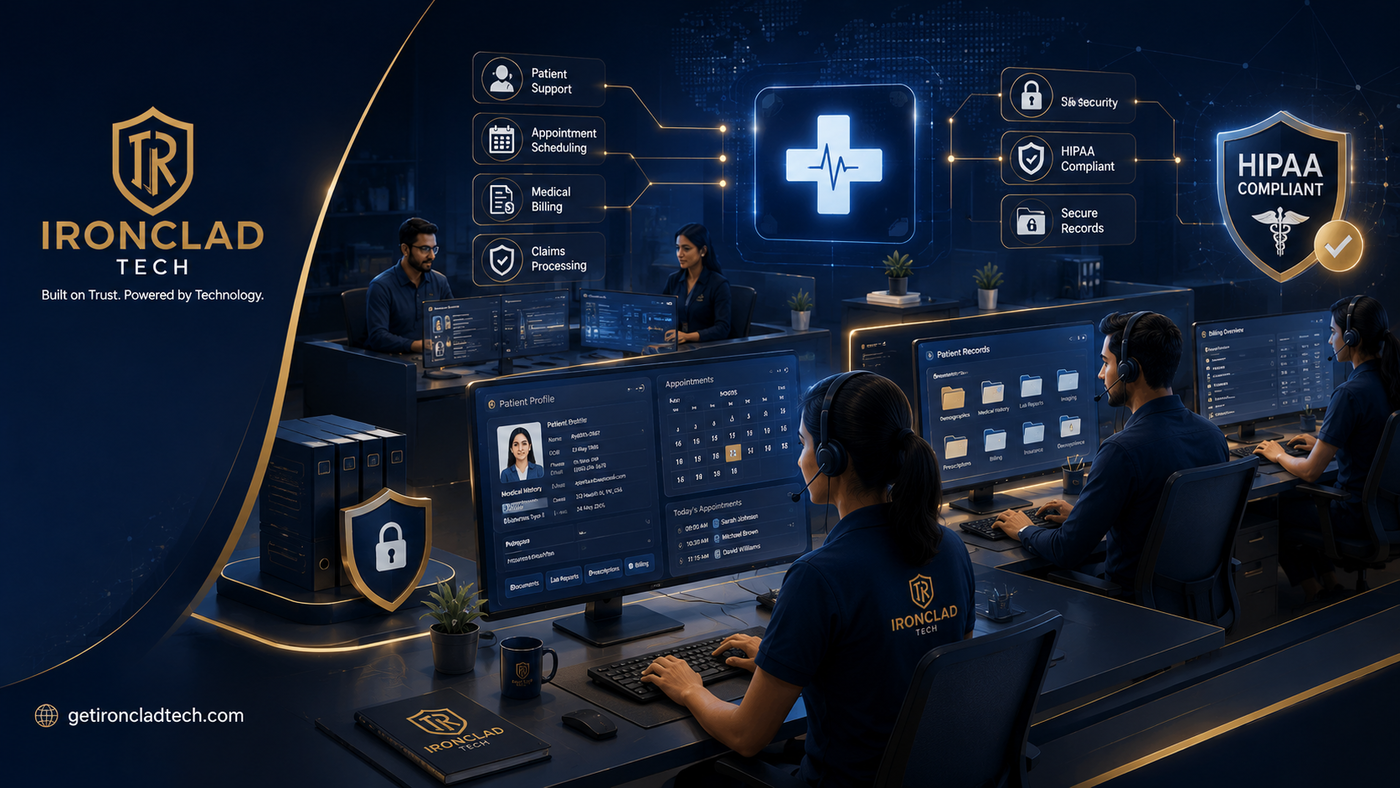
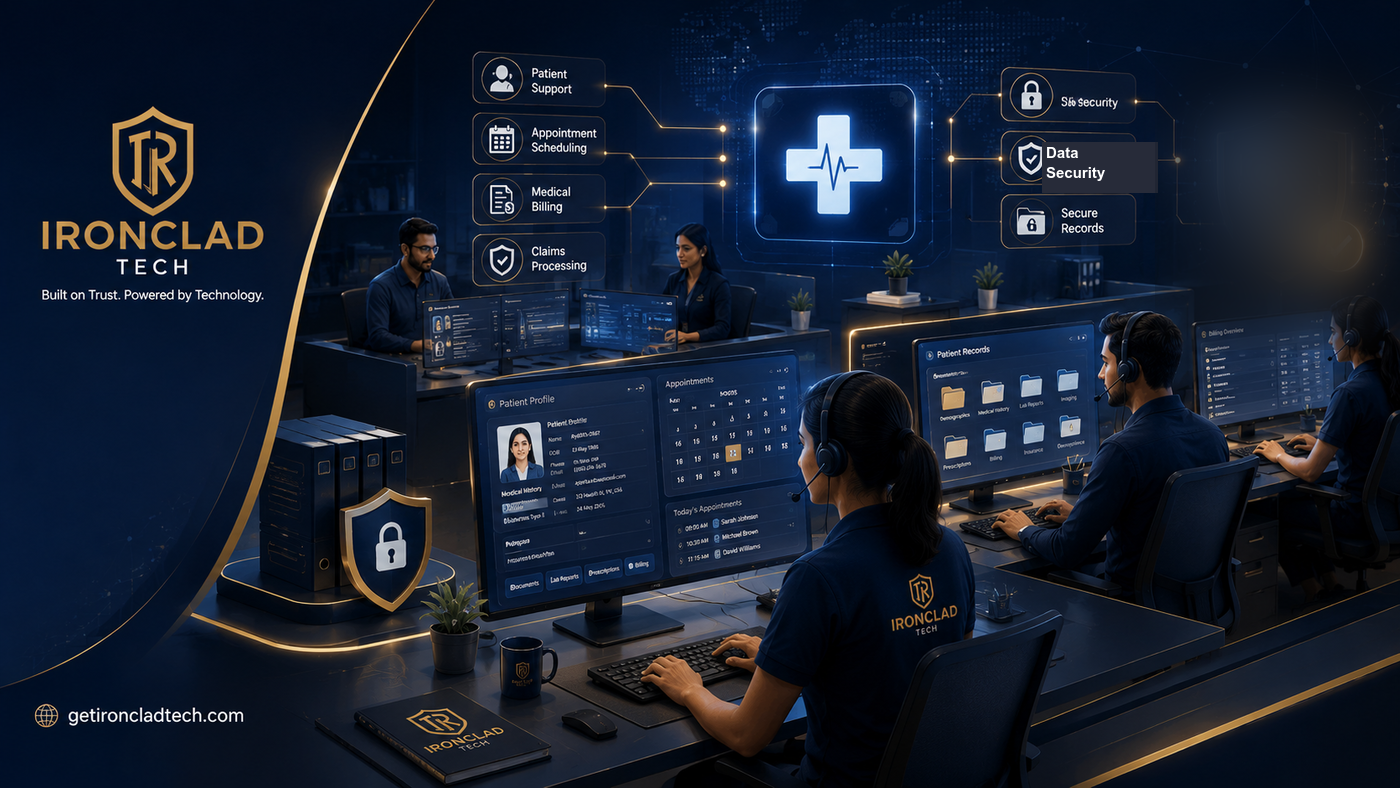
fix: remove unqualified "HIPAA Compliant" claims site-wide
ChatGPT's review flagged a real risk: the site claimed "HIPAA Compliant"
in the homepage hero badge and (baked into image pixels, twice) in the
healthcare-bpo hero image, while the actual body copy elsewhere already
carefully used "HIPAA-aware" — an inconsistency, and a liability if a
prospective client's compliance team asks for certification we haven't
completed.

- index.html hero badge: "HIPAA Compliant" -> "HIPAA-Aware Team"
- alt text on healthcare-bpo.html and services.html (same image):
  "HIPAA-compliant workflows" -> "HIPAA-aware workflows"
- healthcare-bpo-hero.png: replaced the small "HIPAA Compliant" icon
  label with "Data Security" (matching style, same pill), and neutralized
  the large standalone HIPAA-COMPLIANT shield+checkmark badge by blurring
  it into ambient background glow, since a checkmark-in-a-shield still
  implies certification even without the word "HIPAA" attached. Same fix
  automatically applies everywhere this image is reused (services.html).

Every remaining mention of HIPAA on the site now consistently says
"HIPAA-aware" / "HIPAA-awareness training", matching what's actually true.

Changed region(s): [[0.7371, 0.1218, 0.9829, 0.3655], [0.9214, 0.3959, 0.9829, 0.4569], [0.86, 0.3959, 0.8907, 0.4264]]

diff --git a/healthcare-bpo.html b/healthcare-bpo.html
@@ -160,7 +160,7 @@
 <div class="showcase-frame">
 <picture>
 <source srcset="images/hero/healthcare-bpo-hero.webp" type="image/webp">
-<img src="images/hero/healthcare-bpo-hero.png" alt="Ironclad Tech healthcare BPO team managing patient records, appointments and HIPAA-compliant workflows" class="img-fluid" data-tilt-img width="1400" height="787" loading="eager">
+<img src="images/hero/healthcare-bpo-hero.png" alt="Ironclad Tech healthcare BPO team managing patient records, appointments and HIPAA-aware workflows" class="img-fluid" data-tilt-img width="1400" height="787" loading="eager">
 </picture>
 <div class="showcase-shine"></div>
 </div>

diff --git a/services.html b/services.html
@@ -239,7 +239,7 @@
 <div class="showcase-frame">
 <picture>
 <source srcset="images/hero/healthcare-bpo-hero.webp" type="image/webp">
-<img src="images/hero/healthcare-bpo-hero.png" class="img-fluid" data-tilt-img alt="Ironclad Tech healthcare BPO team managing patient records, appointments and HIPAA-compliant workflows" width="1400" height="787" loading="lazy">
+<img src="images/hero/healthcare-bpo-hero.png" class="img-fluid" data-tilt-img alt="Ironclad Tech healthcare BPO team managing patient records, appointments and HIPAA-aware workflows" width="1400" height="787" loading="lazy">
 </picture>
 <div class="showcase-shine"></div>
 </div>

diff --git a/index.html b/index.html
@@ -186,7 +186,7 @@
 </picture>
 <div class="hero-media-shine"></div>
 </div>
-<div class="float-badge hero-badge-top"><i class="fas fa-shield-halved"></i> HIPAA Compliant</div>
+<div class="float-badge hero-badge-top"><i class="fas fa-shield-halved"></i> HIPAA-Aware Team</div>
 <div class="float-badge hero-badge-bottom"><i class="fas fa-chart-line"></i> Real-Time Insights</div>
 </div>
 <p class="hero-note">Dedicated teams aligned to your time zone, with onboarding typically inside two weeks.</p>
